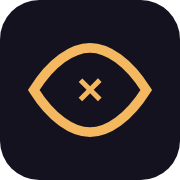
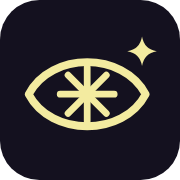
Branding pass: ink navy + butter yellow, eye-and-star mark, serif wordmark, stage-vocabulary nods
Original mark and palette inspired by the student's favorite band; no logo,
wordmark art, photos, titles, or lyrics used. Documented in docs/BRANDING.md.

Claude-Session: https://claude.ai/code/session_01FB4cJoau8KvdF9ZuAriNfq

Changed region(s): [[0.1389, 0.1944, 0.8611, 0.7778]]

diff --git a/public/study/unit-2.html b/public/study/unit-2.html
@@ -3,13 +3,13 @@
 <title>Unit 2 Study Guide</title>
 <meta name="claude:viewport-fit-sides" content="cover">
 <meta name="viewport" content="width=device-width, initial-scale=1, viewport-fit=cover">
-<link rel="stylesheet" href="https://fonts.googleapis.com/css2?family=Bricolage+Grotesque:opsz,wght@12..96,500;12..96,700&family=Figtree:wght@400;500;600&display=swap">
+<link rel="stylesheet" href="https://fonts.googleapis.com/css2?family=Fraunces:opsz,wght@9..144,600;9..144,800&family=Figtree:wght@400;500;600&display=swap">
 <style>
 /* Layout: one calm column. One main action per screen; help tools live in a sheet so the problem stays the focus. */
-:root{--bg:#16131f;--panel:#221e31;--panel2:#2d2845;--fg:#f1e9dc;--muted:#b9afc9;--accent:#f4b860;--accent-fg:#2a1d08;--good:#9fd3a8;--good-bg:#1f3a2c;--line:#403959;--focus:#f4b860;
- --display:"Bricolage Grotesque","Avenir Next",system-ui,sans-serif;--body:"Figtree",system-ui,-apple-system,sans-serif;color-scheme:dark}
-@media (prefers-color-scheme:light){:root:not([data-theme="dark"]){--bg:#f4f2f8;--panel:#ffffff;--panel2:#ebe7f5;--fg:#241f35;--muted:#5d5473;--accent:#a3600a;--accent-fg:#ffffff;--good:#23683b;--good-bg:#dff1e4;--line:#d2cce2;--focus:#a3600a;color-scheme:light}}
-:root[data-theme="light"]{--bg:#f4f2f8;--panel:#ffffff;--panel2:#ebe7f5;--fg:#241f35;--muted:#5d5473;--accent:#a3600a;--accent-fg:#ffffff;--good:#23683b;--good-bg:#dff1e4;--line:#d2cce2;--focus:#a3600a;color-scheme:light}
+:root{--bg:#14111f;--panel:#1e1a2e;--panel2:#2a2540;--fg:#f1ecd8;--muted:#b4aac4;--accent:#f3eba0;--accent-fg:#1a1626;--good:#9fd3a8;--good-bg:#1f3a2c;--line:#40395a;--focus:#f3eba0;
+ --display:"Fraunces",Georgia,"Times New Roman",serif;--body:"Figtree",system-ui,-apple-system,sans-serif;color-scheme:dark}
+@media (prefers-color-scheme:light){:root:not([data-theme="dark"]){--bg:#f8f5dc;--panel:#fffef6;--panel2:#efe9c4;--fg:#1b1730;--muted:#5b5570;--accent:#2c2358;--accent-fg:#f6f1b5;--good:#23683b;--good-bg:#e3f1d6;--line:#ddd6a8;--focus:#2c2358;color-scheme:light}}
+:root[data-theme="light"]{--bg:#f8f5dc;--panel:#fffef6;--panel2:#efe9c4;--fg:#1b1730;--muted:#5b5570;--accent:#2c2358;--accent-fg:#f6f1b5;--good:#23683b;--good-bg:#e3f1d6;--line:#ddd6a8;--focus:#2c2358;color-scheme:light}
 *{box-sizing:border-box;-webkit-tap-highlight-color:transparent}
 body{background:var(--bg);color:var(--fg);font:19px/1.55 var(--body);padding-block:18px 64px;padding-left:max(16px,env(safe-area-inset-left,0px));padding-right:max(16px,env(safe-area-inset-right,0px));user-select:none;-webkit-user-select:none}
 #app{max-width:640px;margin:0 auto;min-width:0}
@@ -65,6 +65,10 @@ svg.g{width:100%;max-width:400px;height:auto}.g .ax{stroke:var(--muted);stroke-w
 .res{display:flex;flex-direction:column;gap:10px}.res .it{background:var(--panel2);border-radius:16px;padding:14px 16px;display:flex;flex-direction:column;gap:4px;font-size:17px}.ok{color:var(--good);font-weight:600}.rv{color:var(--accent);font-weight:600}
 .timer{font-family:var(--display);font-size:64px;text-align:center;font-variant-numeric:tabular-nums}
 @media (prefers-reduced-motion:no-preference){.pop{animation:pop .35s ease-out}@keyframes pop{from{transform:scale(.97)}}.shake{animation:shk .4s}@keyframes shk{20%,60%{transform:translateX(-7px)}40%,80%{transform:translateX(7px)}}.nudges li{animation:fadein .3s}@keyframes fadein{from{opacity:0;transform:translateY(5px)}}}
+.logo{display:flex;align-items:center;gap:12px;color:var(--accent)}.wm{font-family:var(--display);font-weight:800;letter-spacing:.2em;font-size:17px}
+.dots i{border:0;border-radius:0;width:18px;height:18px;background:var(--line);clip-path:polygon(50% 0,62% 38%,100% 50%,62% 62%,50% 100%,38% 62%,0 50%,38% 38%)}
+.dots i{background:var(--muted);opacity:.35}.dots i.on{background:var(--accent);opacity:1}.dots i.now{background:var(--accent);opacity:1;width:24px;height:24px}
+.say.win::before{content:"\2726 ";color:var(--good)}
 </style>
 <div id="app"></div><div id="sheet"></div>
 <script>
@@ -79,7 +83,8 @@ const $ = (h) => { const t = document.createElement("template"); t.innerHTML = h
 const esc = (s) => String(s).replace(/[&<>"]/g, c => ({"&":"&amp;","<":"&lt;",">":"&gt;",'"':"&quot;"}[c]));
 const LV = {foundation:"Base skill", builds:"Builds on one earlier lesson", mixed:"Mixes several lessons"};
 const LVTXT = {foundation:"This one mostly uses this lesson's skill plus things you learned in earlier grades.", builds:"This one uses this lesson's skill together with one earlier lesson from this unit.", mixed:"This one combines several lessons. If you get stuck, try the earlier lessons first."};
-const WIN = ["Got it!","Nice one.","Yes, that's it.","Solid.","That's right."];
+const WIN = ["Nailed it.","Clean take.","On beat.","That's the one.","Stage-ready."];
+const MARK = `<svg width="52" height="42" viewBox="0 0 120 96" role="img" aria-label="Mathseye" fill="none" stroke="currentColor" stroke-linecap="round" stroke-linejoin="round"><path d="M6 54 C26 16 94 16 114 54 C94 92 26 92 6 54Z" stroke-width="7"/><g stroke-width="6"><path d="M60 30 V78 M36 54 H84"/><path d="M43 37 L77 71 M77 37 L43 71"/></g><path d="M104 8 Q106 22 118 24 Q106 26 104 40 Q102 26 90 24 Q102 22 104 8Z" fill="currentColor" stroke="none"/></svg>`;
 const S = {view:"home", lesson:null, cur:null, open:null, test:null, sheet:null, timer:null};
 const probs = DATA.problems, byId = Object.fromEntries(probs.map(p => [p.id, p]));
 const subDone = (s) => probs.filter(p => p.sub===s && save.solved[p.id]).length, subAll = (s) => probs.filter(p => p.sub===s).length;
@@ -127,8 +132,8 @@ function buildMission(lesson){
 /* ---------- views ---------- */
 const VIEWS = {
 home(){ const total = probs.length, done = probs.filter(p => save.solved[p.id]).length, m = save.mission, resume = m && m.i < m.ids.length;
-  const el = $(`<div class="stack"><header><h1>Unit 2 Study Guide</h1><p class="sub">Pick one thing. Small steps count.</p></header>
-  <section class="card"><p class="eyebrow">Today</p><h2>${resume ? `Keep going: ${m.i} of ${m.ids.length} done` : "Ready for a quick mission?"}</h2><p class="lead muted">5 problems, about 10 minutes. You can stop anytime.</p><button class="btn primary big" id="go">${resume ? "Keep going" : "Start a mission"}</button></section>
+  const el = $(`<div class="stack"><header><div class="logo">${MARK}<span class="wm">MATHSEYE</span></div><h1 style="margin-top:14px">Unit 2 Study Guide</h1><p class="sub">Pick one thing. Small steps count.</p></header>
+  <section class="card"><p class="eyebrow">Tonight's set</p><h2>${resume ? `Keep going: ${m.i} of ${m.ids.length} done` : "Ready for a quick mission?"}</h2><p class="lead muted">5 problems, about 10 minutes. You can stop anytime.</p><button class="btn primary big" id="go">${resume ? "Keep going" : "Start a mission"}</button></section>
   <div class="grid3"><button class="btn" id="pick">Pick a lesson</button><button class="btn" id="cheat">Cheat sheet</button><button class="btn" id="test">Practice test</button></div>
   <section class="card"><p class="eyebrow">Your progress</p><div class="bar" aria-hidden="true"><i style="width:${done/total*100}%"></i></div><p class="lead" style="margin:0">${done} of ${total} solved${save.day.d===today()&&save.day.n?` · ${save.day.n} today`:""}</p></section><div id="rs"></div></div>`);
   const rs = el.querySelector("#rs"), askReset = () => { rs.innerHTML = ""; const b = $(`<button class="btn quiet">Reset my progress</button>`); b.onclick = () => { rs.innerHTML = ""; const box = $(`<div class="card"><p class="lead" style="margin:0">Erase all your progress in this study guide? This can't be undone.</p><div class="row"><button class="btn primary" id="yes">Yes, reset</button><button class="btn" id="no">Keep my progress</button></div></div>`); box.querySelector("#yes").onclick = () => { save = {solved:{}, clean:{}, mission:null, day:{d:"", n:0}}; persist(); S.cur = null; S.test = null; go("home"); }; box.querySelector("#no").onclick = askReset; rs.append(box); box.querySelector("#no").focus(); }; rs.append(b); }; askReset();
@@ -176,12 +181,12 @@ mission(){ const m = save.mission; if (!m || m.i >= m.ids.length) return VIEWS.s
   const solvedNow = res.done; if (solvedNow && !st.msg) { st.win = true; st.msg = "Got it!"; }
   draw(); el.append(card); return el; },
 summary(){ const m = save.mission, n = m ? m.ids.length : 0, ok = m ? m.ids.filter(id => m.res[id] && m.res[id].done).length : 0, clean = m ? m.ids.filter(id => save.clean[id] && m.res[id] && m.res[id].tries === 1 && m.res[id].hints === 0).length : 0;
-  const el = $(`<div class="stack"><header><h1>Mission done!</h1></header><section class="card"><div class="big-n">${ok}</div><p class="lead">problem${ok===1?"":"s"} solved${clean?`, ${clean} with no help`:""}. That's real progress.</p></section>
-  <button class="btn primary big" id="again">Another mission</button><div class="row"><button class="btn" id="brk">Take a 2-minute break</button><button class="btn" id="home">I'm done for now</button></div></div>`);
+  const el = $(`<div class="stack"><header><h1>That's a wrap!</h1></header><section class="card"><div class="big-n">${ok}</div><p class="lead">problem${ok===1?"":"s"} solved${clean?`, ${clean} with no help`:""}. That's real progress.</p></section>
+  <button class="btn primary big" id="again">Encore: another mission</button><div class="row"><button class="btn" id="brk">Take a 2-minute break</button><button class="btn" id="home">I'm done for now</button></div></div>`);
   save.mission = null; persist(); el.querySelector("#again").onclick = () => buildMission(null); el.querySelector("#brk").onclick = () => go("brk"); el.querySelector("#home").onclick = () => go("home"); return el; },
-brk(){ let left = 120; const el = $(`<div class="stack"><header><h1>Quick break</h1><p class="sub">Your brain works better after one. Pick any.</p></header><section class="card"><ul class="steps"><li>Stand up and stretch your arms up high.</li><li>Drink some water.</li><li>Look out a window for 20 seconds.</li></ul><div class="timer" id="tm" aria-live="off">2:00</div><button class="btn primary big" id="start">Start a 2-minute timer</button></section><button class="btn" id="home">Back to home</button></div>`);
+brk(){ let left = 120; const el = $(`<div class="stack"><header><h1>Intermission</h1><p class="sub">Your brain works better after a break. Pick any.</p></header><section class="card"><ul class="steps"><li>Stand up and stretch your arms up high.</li><li>Drink some water.</li><li>Look out a window for 20 seconds.</li></ul><div class="timer" id="tm" aria-live="off">2:00</div><button class="btn primary big" id="start">Start a 2-minute timer</button></section><button class="btn" id="home">Back to home</button></div>`);
   el.querySelector("#home").onclick = () => go("home"); el.querySelector("#start").onclick = e => { e.target.disabled = true; clearInterval(S.timer); S.timer = setInterval(() => { left--; const tm = document.getElementById("tm"); if (tm) tm.textContent = Math.floor(left/60) + ":" + String(left%60).padStart(2,"0"); if (left <= 0) { clearInterval(S.timer); if (tm) tm.textContent = "Ready when you are."; } }, 1000); }; return el; },
-testIntro(){ const el = $(`<div class="stack"></div>`); el.append(backBar("Home", () => go("home")), $(`<section class="card"><p class="eyebrow">Practice test</p><h2>14 questions, no hints</h2><p class="lead muted">Two from each lesson, mixed up like the real test. At the end you see which lessons to look at again. You can stop anytime.</p><button class="btn primary big" id="st">Start the test</button></section>`)); el.querySelector("#st").onclick = () => { const picks = []; DATA.subs.forEach(s => picks.push(...probs.filter(p => p.sub === s).sort(() => Math.random()-.5).slice(0,2))); S.test = {list:picks.map(p => p.variants && Math.random() < .6 ? Object.assign({}, p, p.variants[Math.floor(Math.random()*p.variants.length)]) : p).sort(() => Math.random()-.5), i:0, ans:[], input:"", pick:null, all:false}; go("testQ"); }; return el; },
+testIntro(){ const el = $(`<div class="stack"></div>`); el.append(backBar("Home", () => go("home")), $(`<section class="card"><p class="eyebrow">Dress rehearsal</p><h2>Practice test: 14 questions, no hints</h2><p class="lead muted">Two from each lesson, mixed up like the real test. At the end you see which lessons to look at again. You can stop anytime.</p><button class="btn primary big" id="st">Start the test</button></section>`)); el.querySelector("#st").onclick = () => { const picks = []; DATA.subs.forEach(s => picks.push(...probs.filter(p => p.sub === s).sort(() => Math.random()-.5).slice(0,2))); S.test = {list:picks.map(p => p.variants && Math.random() < .6 ? Object.assign({}, p, p.variants[Math.floor(Math.random()*p.variants.length)]) : p).sort(() => Math.random()-.5), i:0, ans:[], input:"", pick:null, all:false}; go("testQ"); }; return el; },
 testQ(){ const T = S.test, p = T.list[T.i]; const el = $(`<div class="stack"></div>`);
   const top = $(`<div class="top"><button class="btn quiet" id="exit">✕ Stop</button><span class="muted">Question ${T.i+1} of ${T.list.length}</span></div>`); top.querySelector("#exit").onclick = () => go("home"); el.append(top, $(`<div class="bar" aria-hidden="true"><i style="width:${T.i/T.list.length*100}%"></i></div>`));
   const c = $(`<section class="card"><p class="problem">${esc(p.text)}</p><div class="vis">${visual(p)}</div><div class="in"></div><button class="btn primary big nx">${T.i+1<T.list.length?"Next":"Finish"}</button></section>`), inp = c.querySelector(".in");

diff --git a/tools/unit2_template.html b/tools/unit2_template.html
@@ -1,13 +1,13 @@
 <title>Unit 2 Study Guide</title>
 <meta name="claude:viewport-fit-sides" content="cover">
 <meta name="viewport" content="width=device-width, initial-scale=1, viewport-fit=cover">
-<link rel="stylesheet" href="https://fonts.googleapis.com/css2?family=Bricolage+Grotesque:opsz,wght@12..96,500;12..96,700&family=Figtree:wght@400;500;600&display=swap">
+<link rel="stylesheet" href="https://fonts.googleapis.com/css2?family=Fraunces:opsz,wght@9..144,600;9..144,800&family=Figtree:wght@400;500;600&display=swap">
 <style>
 /* Layout: one calm column. One main action per screen; help tools live in a sheet so the problem stays the focus. */
-:root{--bg:#16131f;--panel:#221e31;--panel2:#2d2845;--fg:#f1e9dc;--muted:#b9afc9;--accent:#f4b860;--accent-fg:#2a1d08;--good:#9fd3a8;--good-bg:#1f3a2c;--line:#403959;--focus:#f4b860;
- --display:"Bricolage Grotesque","Avenir Next",system-ui,sans-serif;--body:"Figtree",system-ui,-apple-system,sans-serif;color-scheme:dark}
-@media (prefers-color-scheme:light){:root:not([data-theme="dark"]){--bg:#f4f2f8;--panel:#ffffff;--panel2:#ebe7f5;--fg:#241f35;--muted:#5d5473;--accent:#a3600a;--accent-fg:#ffffff;--good:#23683b;--good-bg:#dff1e4;--line:#d2cce2;--focus:#a3600a;color-scheme:light}}
-:root[data-theme="light"]{--bg:#f4f2f8;--panel:#ffffff;--panel2:#ebe7f5;--fg:#241f35;--muted:#5d5473;--accent:#a3600a;--accent-fg:#ffffff;--good:#23683b;--good-bg:#dff1e4;--line:#d2cce2;--focus:#a3600a;color-scheme:light}
+:root{--bg:#14111f;--panel:#1e1a2e;--panel2:#2a2540;--fg:#f1ecd8;--muted:#b4aac4;--accent:#f3eba0;--accent-fg:#1a1626;--good:#9fd3a8;--good-bg:#1f3a2c;--line:#40395a;--focus:#f3eba0;
+ --display:"Fraunces",Georgia,"Times New Roman",serif;--body:"Figtree",system-ui,-apple-system,sans-serif;color-scheme:dark}
+@media (prefers-color-scheme:light){:root:not([data-theme="dark"]){--bg:#f8f5dc;--panel:#fffef6;--panel2:#efe9c4;--fg:#1b1730;--muted:#5b5570;--accent:#2c2358;--accent-fg:#f6f1b5;--good:#23683b;--good-bg:#e3f1d6;--line:#ddd6a8;--focus:#2c2358;color-scheme:light}}
+:root[data-theme="light"]{--bg:#f8f5dc;--panel:#fffef6;--panel2:#efe9c4;--fg:#1b1730;--muted:#5b5570;--accent:#2c2358;--accent-fg:#f6f1b5;--good:#23683b;--good-bg:#e3f1d6;--line:#ddd6a8;--focus:#2c2358;color-scheme:light}
 *{box-sizing:border-box;-webkit-tap-highlight-color:transparent}
 body{background:var(--bg);color:var(--fg);font:19px/1.55 var(--body);padding-block:18px 64px;padding-left:max(16px,env(safe-area-inset-left,0px));padding-right:max(16px,env(safe-area-inset-right,0px));user-select:none;-webkit-user-select:none}
 #app{max-width:640px;margin:0 auto;min-width:0}
@@ -63,6 +63,10 @@ svg.g{width:100%;max-width:400px;height:auto}.g .ax{stroke:var(--muted);stroke-w
 .res{display:flex;flex-direction:column;gap:10px}.res .it{background:var(--panel2);border-radius:16px;padding:14px 16px;display:flex;flex-direction:column;gap:4px;font-size:17px}.ok{color:var(--good);font-weight:600}.rv{color:var(--accent);font-weight:600}
 .timer{font-family:var(--display);font-size:64px;text-align:center;font-variant-numeric:tabular-nums}
 @media (prefers-reduced-motion:no-preference){.pop{animation:pop .35s ease-out}@keyframes pop{from{transform:scale(.97)}}.shake{animation:shk .4s}@keyframes shk{20%,60%{transform:translateX(-7px)}40%,80%{transform:translateX(7px)}}.nudges li{animation:fadein .3s}@keyframes fadein{from{opacity:0;transform:translateY(5px)}}}
+.logo{display:flex;align-items:center;gap:12px;color:var(--accent)}.wm{font-family:var(--display);font-weight:800;letter-spacing:.2em;font-size:17px}
+.dots i{border:0;border-radius:0;width:18px;height:18px;background:var(--line);clip-path:polygon(50% 0,62% 38%,100% 50%,62% 62%,50% 100%,38% 62%,0 50%,38% 38%)}
+.dots i{background:var(--muted);opacity:.35}.dots i.on{background:var(--accent);opacity:1}.dots i.now{background:var(--accent);opacity:1;width:24px;height:24px}
+.say.win::before{content:"\2726 ";color:var(--good)}
 </style>
 <div id="app"></div><div id="sheet"></div>
 <script>
@@ -77,7 +81,8 @@ const $ = (h) => { const t = document.createElement("template"); t.innerHTML = h
 const esc = (s) => String(s).replace(/[&<>"]/g, c => ({"&":"&amp;","<":"&lt;",">":"&gt;",'"':"&quot;"}[c]));
 const LV = {foundation:"Base skill", builds:"Builds on one earlier lesson", mixed:"Mixes several lessons"};
 const LVTXT = {foundation:"This one mostly uses this lesson's skill plus things you learned in earlier grades.", builds:"This one uses this lesson's skill together with one earlier lesson from this unit.", mixed:"This one combines several lessons. If you get stuck, try the earlier lessons first."};
-const WIN = ["Got it!","Nice one.","Yes, that's it.","Solid.","That's right."];
+const WIN = ["Nailed it.","Clean take.","On beat.","That's the one.","Stage-ready."];
+const MARK = `<svg width="52" height="42" viewBox="0 0 120 96" role="img" aria-label="Mathseye" fill="none" stroke="currentColor" stroke-linecap="round" stroke-linejoin="round"><path d="M6 54 C26 16 94 16 114 54 C94 92 26 92 6 54Z" stroke-width="7"/><g stroke-width="6"><path d="M60 30 V78 M36 54 H84"/><path d="M43 37 L77 71 M77 37 L43 71"/></g><path d="M104 8 Q106 22 118 24 Q106 26 104 40 Q102 26 90 24 Q102 22 104 8Z" fill="currentColor" stroke="none"/></svg>`;
 const S = {view:"home", lesson:null, cur:null, open:null, test:null, sheet:null, timer:null};
 const probs = DATA.problems, byId = Object.fromEntries(probs.map(p => [p.id, p]));
 const subDone = (s) => probs.filter(p => p.sub===s && save.solved[p.id]).length, subAll = (s) => probs.filter(p => p.sub===s).length;
@@ -125,8 +130,8 @@ function buildMission(lesson){
 /* ---------- views ---------- */
 const VIEWS = {
 home(){ const total = probs.length, done = probs.filter(p => save.solved[p.id]).length, m = save.mission, resume = m && m.i < m.ids.length;
-  const el = $(`<div class="stack"><header><h1>Unit 2 Study Guide</h1><p class="sub">Pick one thing. Small steps count.</p></header>
-  <section class="card"><p class="eyebrow">Today</p><h2>${resume ? `Keep going: ${m.i} of ${m.ids.length} done` : "Ready for a quick mission?"}</h2><p class="lead muted">5 problems, about 10 minutes. You can stop anytime.</p><button class="btn primary big" id="go">${resume ? "Keep going" : "Start a mission"}</button></section>
+  const el = $(`<div class="stack"><header><div class="logo">${MARK}<span class="wm">MATHSEYE</span></div><h1 style="margin-top:14px">Unit 2 Study Guide</h1><p class="sub">Pick one thing. Small steps count.</p></header>
+  <section class="card"><p class="eyebrow">Tonight's set</p><h2>${resume ? `Keep going: ${m.i} of ${m.ids.length} done` : "Ready for a quick mission?"}</h2><p class="lead muted">5 problems, about 10 minutes. You can stop anytime.</p><button class="btn primary big" id="go">${resume ? "Keep going" : "Start a mission"}</button></section>
   <div class="grid3"><button class="btn" id="pick">Pick a lesson</button><button class="btn" id="cheat">Cheat sheet</button><button class="btn" id="test">Practice test</button></div>
   <section class="card"><p class="eyebrow">Your progress</p><div class="bar" aria-hidden="true"><i style="width:${done/total*100}%"></i></div><p class="lead" style="margin:0">${done} of ${total} solved${save.day.d===today()&&save.day.n?` · ${save.day.n} today`:""}</p></section><div id="rs"></div></div>`);
   const rs = el.querySelector("#rs"), askReset = () => { rs.innerHTML = ""; const b = $(`<button class="btn quiet">Reset my progress</button>`); b.onclick = () => { rs.innerHTML = ""; const box = $(`<div class="card"><p class="lead" style="margin:0">Erase all your progress in this study guide? This can't be undone.</p><div class="row"><button class="btn primary" id="yes">Yes, reset</button><button class="btn" id="no">Keep my progress</button></div></div>`); box.querySelector("#yes").onclick = () => { save = {solved:{}, clean:{}, mission:null, day:{d:"", n:0}}; persist(); S.cur = null; S.test = null; go("home"); }; box.querySelector("#no").onclick = askReset; rs.append(box); box.querySelector("#no").focus(); }; rs.append(b); }; askReset();
@@ -174,12 +179,12 @@ mission(){ const m = save.mission; if (!m || m.i >= m.ids.length) return VIEWS.s
   const solvedNow = res.done; if (solvedNow && !st.msg) { st.win = true; st.msg = "Got it!"; }
   draw(); el.append(card); return el; },
 summary(){ const m = save.mission, n = m ? m.ids.length : 0, ok = m ? m.ids.filter(id => m.res[id] && m.res[id].done).length : 0, clean = m ? m.ids.filter(id => save.clean[id] && m.res[id] && m.res[id].tries === 1 && m.res[id].hints === 0).length : 0;
-  const el = $(`<div class="stack"><header><h1>Mission done!</h1></header><section class="card"><div class="big-n">${ok}</div><p class="lead">problem${ok===1?"":"s"} solved${clean?`, ${clean} with no help`:""}. That's real progress.</p></section>
-  <button class="btn primary big" id="again">Another mission</button><div class="row"><button class="btn" id="brk">Take a 2-minute break</button><button class="btn" id="home">I'm done for now</button></div></div>`);
+  const el = $(`<div class="stack"><header><h1>That's a wrap!</h1></header><section class="card"><div class="big-n">${ok}</div><p class="lead">problem${ok===1?"":"s"} solved${clean?`, ${clean} with no help`:""}. That's real progress.</p></section>
+  <button class="btn primary big" id="again">Encore: another mission</button><div class="row"><button class="btn" id="brk">Take a 2-minute break</button><button class="btn" id="home">I'm done for now</button></div></div>`);
   save.mission = null; persist(); el.querySelector("#again").onclick = () => buildMission(null); el.querySelector("#brk").onclick = () => go("brk"); el.querySelector("#home").onclick = () => go("home"); return el; },
-brk(){ let left = 120; const el = $(`<div class="stack"><header><h1>Quick break</h1><p class="sub">Your brain works better after one. Pick any.</p></header><section class="card"><ul class="steps"><li>Stand up and stretch your arms up high.</li><li>Drink some water.</li><li>Look out a window for 20 seconds.</li></ul><div class="timer" id="tm" aria-live="off">2:00</div><button class="btn primary big" id="start">Start a 2-minute timer</button></section><button class="btn" id="home">Back to home</button></div>`);
+brk(){ let left = 120; const el = $(`<div class="stack"><header><h1>Intermission</h1><p class="sub">Your brain works better after a break. Pick any.</p></header><section class="card"><ul class="steps"><li>Stand up and stretch your arms up high.</li><li>Drink some water.</li><li>Look out a window for 20 seconds.</li></ul><div class="timer" id="tm" aria-live="off">2:00</div><button class="btn primary big" id="start">Start a 2-minute timer</button></section><button class="btn" id="home">Back to home</button></div>`);
   el.querySelector("#home").onclick = () => go("home"); el.querySelector("#start").onclick = e => { e.target.disabled = true; clearInterval(S.timer); S.timer = setInterval(() => { left--; const tm = document.getElementById("tm"); if (tm) tm.textContent = Math.floor(left/60) + ":" + String(left%60).padStart(2,"0"); if (left <= 0) { clearInterval(S.timer); if (tm) tm.textContent = "Ready when you are."; } }, 1000); }; return el; },
-testIntro(){ const el = $(`<div class="stack"></div>`); el.append(backBar("Home", () => go("home")), $(`<section class="card"><p class="eyebrow">Practice test</p><h2>14 questions, no hints</h2><p class="lead muted">Two from each lesson, mixed up like the real test. At the end you see which lessons to look at again. You can stop anytime.</p><button class="btn primary big" id="st">Start the test</button></section>`)); el.querySelector("#st").onclick = () => { const picks = []; DATA.subs.forEach(s => picks.push(...probs.filter(p => p.sub === s).sort(() => Math.random()-.5).slice(0,2))); S.test = {list:picks.map(p => p.variants && Math.random() < .6 ? Object.assign({}, p, p.variants[Math.floor(Math.random()*p.variants.length)]) : p).sort(() => Math.random()-.5), i:0, ans:[], input:"", pick:null, all:false}; go("testQ"); }; return el; },
+testIntro(){ const el = $(`<div class="stack"></div>`); el.append(backBar("Home", () => go("home")), $(`<section class="card"><p class="eyebrow">Dress rehearsal</p><h2>Practice test: 14 questions, no hints</h2><p class="lead muted">Two from each lesson, mixed up like the real test. At the end you see which lessons to look at again. You can stop anytime.</p><button class="btn primary big" id="st">Start the test</button></section>`)); el.querySelector("#st").onclick = () => { const picks = []; DATA.subs.forEach(s => picks.push(...probs.filter(p => p.sub === s).sort(() => Math.random()-.5).slice(0,2))); S.test = {list:picks.map(p => p.variants && Math.random() < .6 ? Object.assign({}, p, p.variants[Math.floor(Math.random()*p.variants.length)]) : p).sort(() => Math.random()-.5), i:0, ans:[], input:"", pick:null, all:false}; go("testQ"); }; return el; },
 testQ(){ const T = S.test, p = T.list[T.i]; const el = $(`<div class="stack"></div>`);
   const top = $(`<div class="top"><button class="btn quiet" id="exit">✕ Stop</button><span class="muted">Question ${T.i+1} of ${T.list.length}</span></div>`); top.querySelector("#exit").onclick = () => go("home"); el.append(top, $(`<div class="bar" aria-hidden="true"><i style="width:${T.i/T.list.length*100}%"></i></div>`));
   const c = $(`<section class="card"><p class="problem">${esc(p.text)}</p><div class="vis">${visual(p)}</div><div class="in"></div><button class="btn primary big nx">${T.i+1<T.list.length?"Next":"Finish"}</button></section>`), inp = c.querySelector(".in");

diff --git a/src/styles.css b/src/styles.css
@@ -1,15 +1,15 @@
 :root {
-  --bg: #14121f; --panel: #1f1c2e; --panel2: #2a2640; --text: #efe6d8; --muted: #a59bb5;
-  --amber: #f4b860; --amber-dim: #8a6a3a; --good: #9fd3a8;
+  --bg: #14111f; --panel: #1e1a2e; --panel2: #2a2540; --text: #f1ecd8; --muted: #b4aac4; --display: 'Fraunces', Georgia, 'Times New Roman', serif;
+  --amber: #f3eba0; --amber-dim: #8a8550; --good: #9fd3a8;
   color-scheme: dark;
 }
 * { box-sizing: border-box; -webkit-tap-highlight-color: transparent; }
 html, body, #root { height: 100%; margin: 0; }
-body { background: var(--bg); color: var(--text); font-family: -apple-system, 'SF Pro Rounded', system-ui, sans-serif; overscroll-behavior: none; user-select: none; -webkit-user-select: none; }
+body { background: var(--bg); color: var(--text); font-family: 'Figtree', -apple-system, 'SF Pro Rounded', system-ui, sans-serif; overscroll-behavior: none; user-select: none; -webkit-user-select: none; }
 button { font: inherit; color: inherit; border: 0; cursor: pointer; touch-action: manipulation; }
 main { min-height: 100%; padding: max(24px, env(safe-area-inset-top)) 24px 24px; max-width: 1100px; margin: 0 auto; }
 .muted { color: var(--muted); }
-.primary { background: var(--amber); color: #2a1d08; border-radius: 18px; padding: 16px 28px; font-weight: 700; font-size: 20px; }
+.primary { background: var(--amber); color: #1a1626; border-radius: 18px; padding: 16px 28px; font-weight: 700; font-size: 20px; }
 .primary.big { font-size: 24px; padding: 22px 40px; width: 100%; max-width: 420px; }
 .ghost { background: var(--panel2); border-radius: 14px; padding: 10px 18px; }
 .link { background: none; color: var(--muted); padding: 8px; font-size: 17px; }
@@ -63,7 +63,7 @@ main { min-height: 100%; padding: max(24px, env(safe-area-inset-top)) 24px 24px;
 .pad { display: grid; grid-template-columns: repeat(3, 1fr); gap: 10px; }
 .pad button { background: var(--panel); border-radius: 16px; min-height: 68px; font-size: 30px; font-variant-numeric: tabular-nums; }
 .pad button:active { background: var(--panel2); }
-.pad .enter { grid-column: span 2; background: var(--amber); color: #2a1d08; font-weight: 700; font-size: 24px; }
+.pad .enter { grid-column: span 2; background: var(--amber); color: #1a1626; font-weight: 700; font-size: 24px; }
 .pad.yesno { grid-template-columns: 1fr 1fr; }
 .pad.yesno button { min-height: 120px; font-size: 32px; }
 
@@ -74,3 +74,12 @@ main { min-height: 100%; padding: max(24px, env(safe-area-inset-top)) 24px 24px;
 
 .resetbox { display: flex; flex-direction: column; gap: 12px; max-width: 420px; background: var(--panel); padding: 18px; border-radius: 18px; }
 .resetbox p { margin: 0; }
+
+/* ---- Branding: ink navy + butter yellow, eye-and-star mark, stage nods ---- */
+.logo { display: flex; flex-direction: column; align-items: center; gap: 12px; margin-top: 18px; color: var(--amber); }
+.brand { font-family: var(--display); font-size: 36px; font-weight: 800; letter-spacing: .16em; margin: 0; color: var(--amber); }
+.brand small { display: block; font-family: 'Figtree', system-ui, sans-serif; font-size: 15px; font-weight: 500; letter-spacing: .24em; text-transform: uppercase; color: var(--muted); margin-top: 6px; }
+.trickcard h2, .problem, .stats b, .summary h2, .home h2 { font-family: var(--display); }
+.dots i { border-radius: 0; width: 16px; height: 16px; clip-path: polygon(50% 0, 62% 38%, 100% 50%, 62% 62%, 50% 100%, 38% 62%, 0 50%, 38% 38%); }
+.right::before { content: "\2726  "; color: var(--amber); }
+@media (prefers-reduced-motion: no-preference) { .right { animation: spark .5s ease-out; } @keyframes spark { from { transform: scale(.9); opacity: .5; } } }

diff --git a/src/App.tsx b/src/App.tsx
@@ -4,6 +4,7 @@ import { checkAnswer } from './answer';
 import { GENERATORS, fill, seeded, MINUS } from './generators';
 import { newCard, review } from './scheduler';
 import { buildQueue, confidence, SESSION_MS, streak, trickMastery, unlockedTricks } from './session';
+import Mark from './Mark';
 import { fresh, load, save, today, type Db, type QueueItem } from './store';
 import type { Problem } from './types';
 
@@ -41,7 +42,7 @@ function Home({ db, onStart, onGrownups }: { db: Db; onStart: () => void; onGrow
   const learned = TRICKS.filter((t) => db.settings.introducedTricks.includes(t.id));
   return (
     <main className="home">
-      <h1 className="brand">Math<span>s</span>eye <small>Math Facts</small></h1>
+      <div className="logo"><Mark size={84} /><h1 className="brand">MATHSEYE<small>Math Facts</small></h1></div>
       <div className="stats">
         <div><b>{streak(db)}</b><span>night streak</span></div>
         <div><b>{conf === null ? '—' : Math.round(conf * 100) + '%'}</b><span>mental math confidence</span></div>

diff --git a/index.html b/index.html
@@ -3,13 +3,15 @@
   <head>
     <meta charset="UTF-8" />
     <meta name="viewport" content="width=device-width, initial-scale=1, viewport-fit=cover, user-scalable=no" />
-    <meta name="theme-color" content="#14121f" />
+    <meta name="theme-color" content="#14111f" />
     <meta name="apple-mobile-web-app-capable" content="yes" />
     <meta name="apple-mobile-web-app-status-bar-style" content="black-translucent" />
     <meta name="apple-mobile-web-app-title" content="Math Facts" />
     <link rel="manifest" href="./manifest.webmanifest" />
     <link rel="icon" href="./icon.svg" />
     <link rel="apple-touch-icon" href="./icon-180.png" />
+    <link rel="preconnect" href="https://fonts.googleapis.com" />
+    <link rel="stylesheet" href="https://fonts.googleapis.com/css2?family=Fraunces:opsz,wght@9..144,600;9..144,800&family=Figtree:wght@400;500;600&display=swap" />
     <title>Mathseye Math Facts</title>
   </head>
   <body>

diff --git a/src/Mark.tsx b/src/Mark.tsx
@@ -1,0 +1,10 @@
+/** Mathseye mark: an eye whose pupil is a math star (a plus and a times combined), plus a small spark. */
+export default function Mark({ size = 72 }: { size?: number }) {
+  return (
+    <svg width={size} height={size * 0.8} viewBox="0 0 120 96" role="img" aria-label="Mathseye" fill="none" stroke="currentColor" strokeLinecap="round" strokeLinejoin="round">
+      <path d="M6 54 C26 16 94 16 114 54 C94 92 26 92 6 54Z" strokeWidth="7" />
+      <g strokeWidth="6"><path d="M60 30 V78 M36 54 H84" /><path d="M43 37 L77 71 M77 37 L43 71" /></g>
+      <path d="M104 8 Q106 22 118 24 Q106 26 104 40 Q102 26 90 24 Q102 22 104 8Z" fill="currentColor" stroke="none" />
+    </svg>
+  );
+}

diff --git a/docs/BRANDING.md b/docs/BRANDING.md
@@ -1,0 +1,17 @@
+# Mathseye branding
+
+Owner-approved direction: take cues from a band the student loves, without copying anything of theirs.
+
+## What we borrowed (ideas only)
+- **Palette:** deep ink navy (`#14111f`) with pale butter yellow (`#f3eba0`). Light mode inverts it: butter paper, ink-violet type.
+- **Shapes:** an eye (the name's pun) with a star as the pupil; a small spark. Our star is a plus and a times combined, so it is also math.
+- **Type:** a quirky high-contrast serif (Fraunces) for the wordmark and headings; Figtree for body text.
+- **Stage vocabulary** in small doses: "Tonight's set", "Dress rehearsal" (practice test), "Intermission" (break), "That's a wrap", "Encore: another mission", win lines like "Clean take" and "On beat".
+- **Star-shaped progress dots** and a small sparkle on wins.
+
+## What we do not use
+The band's logo or wordmark artwork, photos, song titles, lyrics, member names, or the band's name anywhere in the UI.
+
+## Where it lives
+`public/icon.svg` (+ PNGs), `src/Mark.tsx`, tokens in `src/styles.css` and `tools/unit2_template.html`.
+Keep calm: no flashing, sound off, animations respect reduced motion.

diff --git a/docs/STATUS.md b/docs/STATUS.md
@@ -16,6 +16,7 @@
 - [x] MathFacts: 9 Unit 2 tricks added (13 total), reordered by usefulness; unlock every 2 days (parent can unlock sooner)
 - [x] Study guide: "Try a new one" on every problem (422 variants, tools/unit2_variants.py; independent re-solve test: tools/test_unit2_variants.py)
 - [x] Reset progress: study guide (bottom of home) and MathFacts (Grown-ups), both ask to confirm
+- [x] Branding pass (docs/BRANDING.md): ink navy + butter yellow, eye-and-star mark, serif wordmark, stage-vocabulary nods
 - [ ] Unit 3: upload weekly PDFs, build sheets as they come
 - [ ] Phase 2: Beat the Calculator, Test Mode, spot-the-trick and estimate cards, PIN for grown-ups, more tricks
 - [ ] Move storage to IndexedDB and add JSON export for backup

diff --git a/CLAUDE.md b/CLAUDE.md
@@ -1,7 +1,8 @@
 # Mathseye
 
 Math apps for a 7th grade pre-algebra student. iPad-first PWAs, also work in any browser.
-The name is a play on the band Katseye. Don't use the band's name, logo, or images.
+The name is a play on a band she loves. Branding is *inspired by* that band's look, with the owner's approval (see `docs/BRANDING.md`).
+Never copy the band's logo, wordmark artwork, photos, song titles, or lyrics, and don't put the band's name in the UI.
 
 ## Start of every session
 1. Read `docs/STATUS.md` (what's done, what's next).
